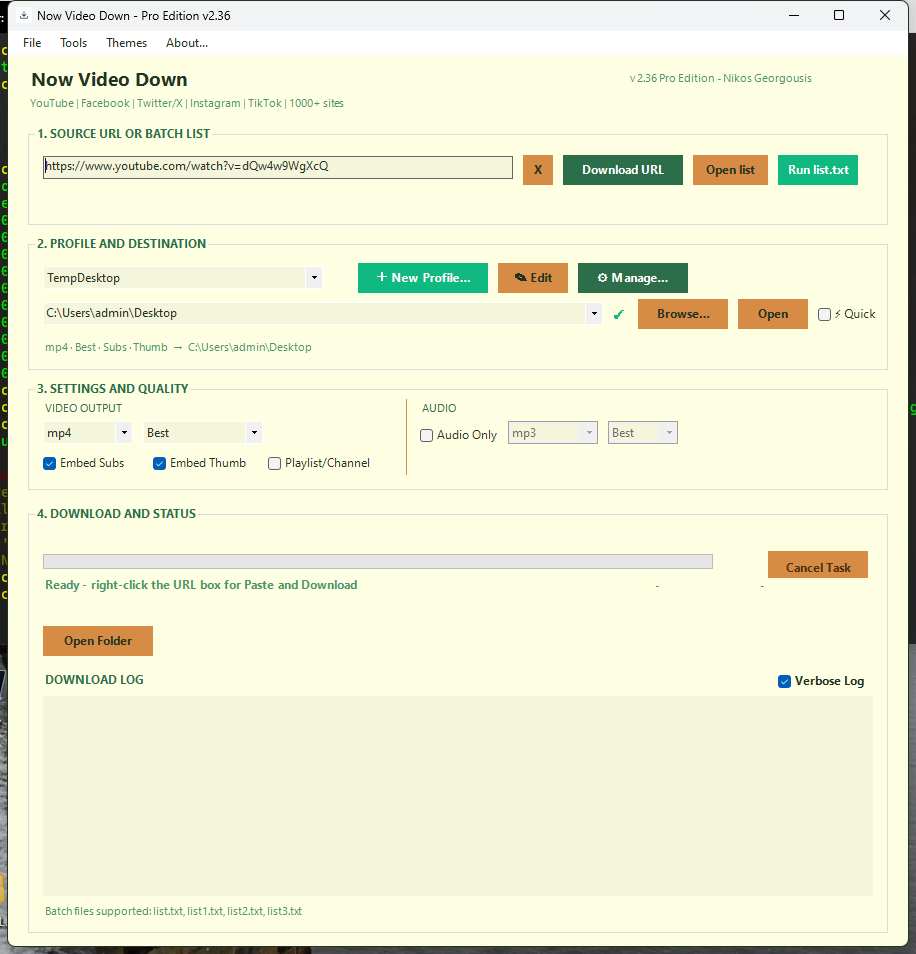
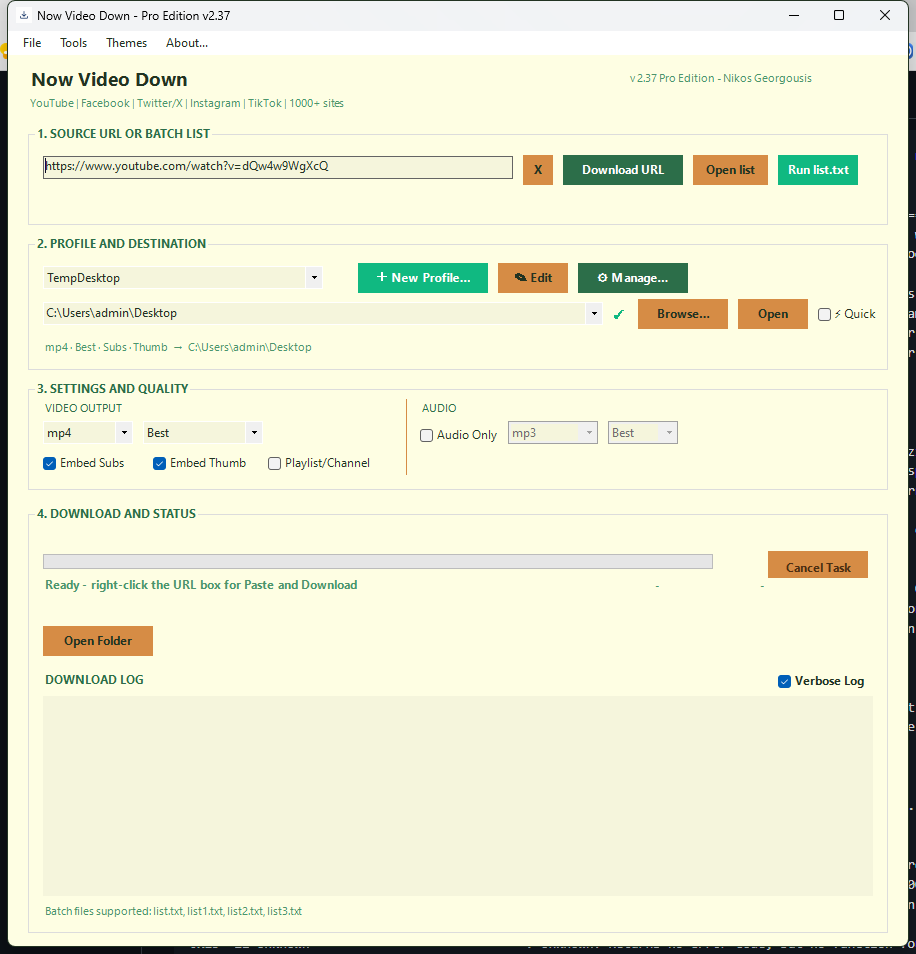
v2.37: startup yt-dlp update check + first-run wizard

diff --git a/README.md b/README.md
@@ -6,7 +6,7 @@ Paste a link, choose where to save it, click Download. That's the whole idea.
 It wraps [yt-dlp](https://github.com/yt-dlp/yt-dlp) and [ffmpeg](https://ffmpeg.org/) in a proper window,
 so you never have to touch the command line.
 
-**Current version: 2.36**
+**Current version: 2.37**
 
 ## Why you'll like it
 
@@ -26,6 +26,8 @@ so you never have to touch the command line.
 ![Manage profiles](Screenshots/02-profiles.png)
 
 ![About](Screenshots/03-about.png)
+
+![First-run welcome](Screenshots/04-wizard.png)
 
 ## Getting started
 
@@ -48,6 +50,8 @@ thumbnails, or high-quality merging). The window still opens without them, it ju
   `Ctrl+R` run the list, `Ctrl+N` new profile, `Ctrl+E` edit the profile.
 - **Minimize** sends the app to the tray next to the clock. Double-click the tray icon to bring it back.
   Downloads keep running in the background.
+- **Keeps itself current:** on startup the app quietly checks whether a newer yt-dlp exists and offers a
+  one-click update if so. First launch shows a short welcome window to pick a theme and downloads folder.
 - **Quick mode** (the checkbox in the profile section): change settings for one download only,
   without touching your saved profiles.
 
